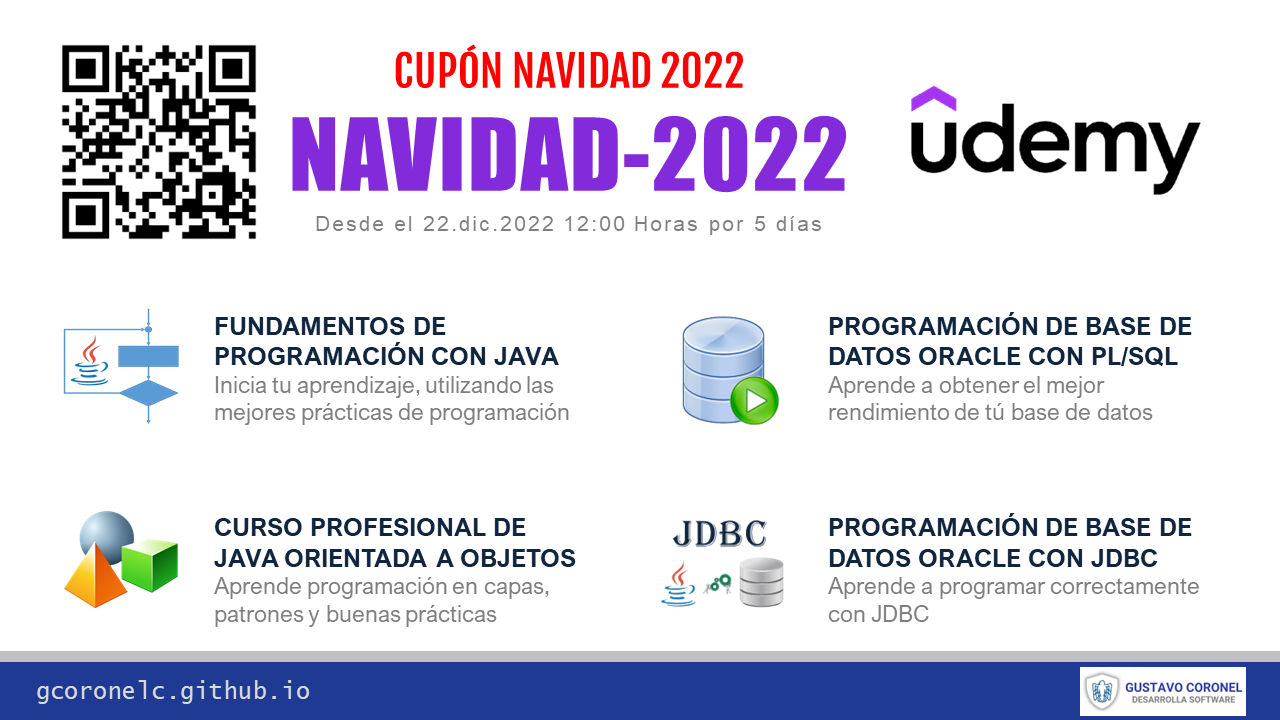
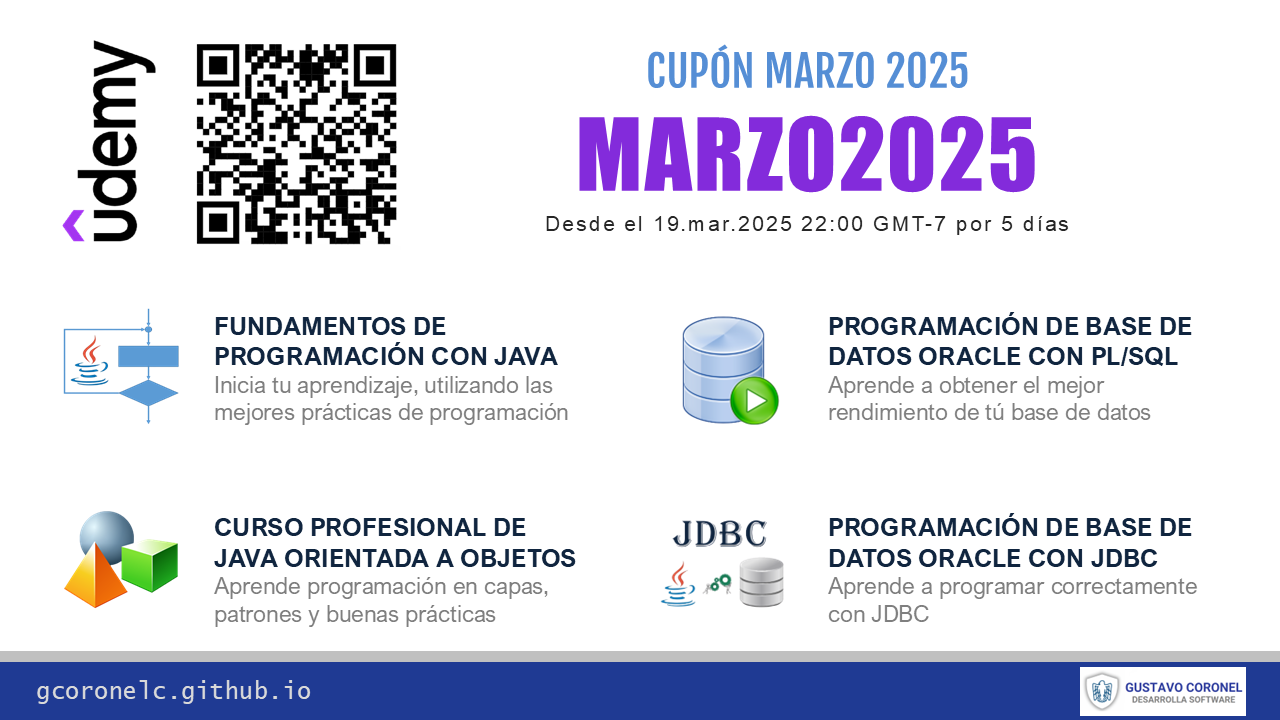
Publicidad Marzo 2025

diff --git a/index.html b/index.html
@@ -75,7 +75,7 @@
     <div class="container-fluid m-2">
       <div class="row justify-content-center">
         <div class="col-lg-6">
-          <img src="img/egcc.png" class="img-fluid" alt="ERIC GUSTAVO CORONEL CASTILLO">
+          <img src="img/egcc1.png" class="img-fluid" alt="ERIC GUSTAVO CORONEL CASTILLO">
         </div>
       </div>
     </div>
@@ -85,7 +85,7 @@
       <div class="card">
         <div class="card-header">
           <h4 class="card-title text-primary">CURSOS VIRTUALES EN UDEMY</h4>
-          <h6 class="card-subtitle mb-2 text-secondary"><b>CUPON: ENERO2024</b></h6>
+          <h6 class="card-subtitle mb-2 text-secondary"><b>CUPON: MARZO2025</b></h6>
 		  <h6 class="card-subtitle mb-2 text-secondary"><b>COSTO: $9.99</b></h6>
           <h6 class="card-subtitle text-secondary"><b>VIGENCIA: Desde el 30.ENE.2024 23:59 PST (GMT -8) por 5 días</b></h6>
         </div>
@@ -100,7 +100,7 @@
                   <div class="youtube-player" data-id="1mcdHGywMvk"></div>
                 </div>
                 <div class="card-footer">
-                  <a class="btn btn-info btn-block" target="_blank" href="https://www.udemy.com/course/fund-java/?couponCode=ENERO2024">Click aquí para ir al curso</a>
+                  <a class="btn btn-info btn-block" target="_blank" href="https://www.udemy.com/course/fund-java/?couponCode=MARZO2025">Click aquí para ir al curso</a>
                 </div>
               </div>
             </div>
@@ -113,7 +113,7 @@
                   <div class="youtube-player" data-id="EKlwF12-l9Y"></div>
                 </div>
                 <div class="card-footer">
-                  <a class="btn btn-info btn-block" target="_blank" href="https://www.udemy.com/course/java-orientado-a-objetos/?couponCode=ENERO2024">Click aquí para ir al curso</a>
+                  <a class="btn btn-info btn-block" target="_blank" href="https://www.udemy.com/course/java-orientado-a-objetos/?couponCode=MARZO2025">Click aquí para ir al curso</a>
                 </div>              
               </div>
             </div>
@@ -126,7 +126,7 @@
                   <div class="youtube-player" data-id="MR53Xgeg28Y"></div>
                 </div>
                 <div class="card-footer">
-                  <a class="btn btn-info btn-block" target="_blank" href="https://www.udemy.com/course/java-jdbc-oracle/?couponCode=ENERO2024">Click aquí para ir al curso</a>
+                  <a class="btn btn-info btn-block" target="_blank" href="https://www.udemy.com/course/java-jdbc-oracle/?couponCode=MARZO2025">Click aquí para ir al curso</a>
                 </div>              
               </div>
             </div>
@@ -139,7 +139,7 @@
                   <div class="youtube-player" data-id="qf5IF2dJtQc"></div>
                 </div>
                 <div class="card-footer">
-                  <a class="btn btn-info btn-block" target="_blank" href="https://www.udemy.com/course/lenguaje-plsql/?couponCode=ENERO2024">Click aquí para ir al curso</a>
+                  <a class="btn btn-info btn-block" target="_blank" href="https://www.udemy.com/course/lenguaje-plsql/?couponCode=MARZO2025">Click aquí para ir al curso</a>
                 </div>              
               </div>
             </div>
